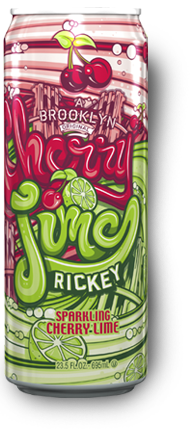
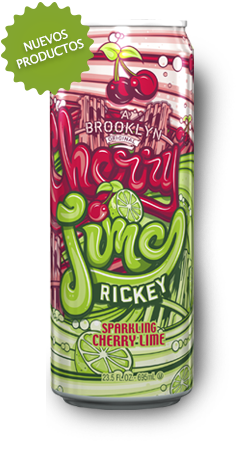
Cambio orden slider
Sparkling primero y etiqueta nuevos en lata1

diff --git a/js/slideshow.js b/js/slideshow.js
@@ -1,8 +1,6 @@
-$(document).ready(function() {		
-	
+$(document).ready(function() {			
 	//Execute the slideShow, set 4 seconds for each images
 	//slideShow(15000);
-
 });
 
 
@@ -123,7 +121,40 @@ function gallery(direction) {
 
 function animate_all_elements(id_next) {
 		
-	if(id_next == 'tenegro'){
+	if (id_next=='sparkling') {
+	    
+	    	var contenedorCinco = $('li.show ul').children('li').append('<span class="sparkling_circles"></span><a href="/main/sparkling_lemonlime/" class="sparkling_lata3"></a><a href="/main/sparkling_mangolime/" class="sparkling_lata2"></a><a href="/main/sparkling_cherrylime" class="sparkling_lata1"></a><span class="sparkling_texto"></span>');
+	    	
+	    	$('.sparkling_texto').delay(800).animate({
+	    	opacity: 1,
+	    	marginLeft: '+=40'
+	  		},500, 'easeInOutQuad');
+	  		
+	  		 $('.sparkling_lata1').delay(200).animate({
+	    	opacity: 1,
+	    	top: '+=20'
+	  		}, 400);
+	  		
+	  		$('.sparkling_lata2').delay(300).animate({
+	    	opacity: 1, 
+	    	top: '+=20'
+	  		}, 200);
+	  		
+	  		$('.sparkling_lata3').delay(300).animate({
+	    	opacity: 1, 
+	    	top: '+=20'
+	  		}, 200);
+	  		
+	  		$('.sparkling_circles').delay(800).animate({
+	    	opacity: 1,
+	    	top: '+=50',
+	    	left: '+=80'
+	  		},4000, 'easeOutElastic'
+            );
+
+	}
+	
+	else if(id_next == 'tenegro'){
 		var contenedor = $('li.show ul').children('li').append('<span class="tenegro_texto"></span><span class="tenegro_flotan"></span><a href="/main/tehelado_fram/" class="tenegro_lata1"></a><span class="tenegro_limon"></span><a href="/main/tehelado_mango/" class="tenegro_lata3"></a><a href="/main/tediet_limon/" class="tenegro_lata4"></a><a href="/main/tehelado_limon/" class="tenegro_lata2"></a>');
 	   
 		$('.tenegro_texto').delay(1000).animate({
@@ -267,7 +298,15 @@ function animate_all_elements(id_next) {
 	    	top: '+=50'
 	  		}, 2000, 'easeInOutSine');
 
-	    }  else if (id_next=='sparkling') {
+	    }  
+
+}
+
+function animate_first_elements() {
+
+	var id = $('li.show ul').attr('id');
+
+	if (id =='sparkling') {
 	    
 	    	var contenedorCinco = $('li.show ul').children('li').append('<span class="sparkling_circles"></span><a href="/main/sparkling_lemonlime/" class="sparkling_lata3"></a><a href="/main/sparkling_mangolime/" class="sparkling_lata2"></a><a href="/main/sparkling_cherrylime" class="sparkling_lata1"></a><span class="sparkling_texto"></span>');
 	    	
@@ -298,50 +337,8 @@ function animate_all_elements(id_next) {
 	  		},4000, 'easeOutElastic'
             );
 
-	    }
-
-}
-
-function animate_first_elements() {
-
-	var id = $('li.show ul').attr('id');
-
-	if(id== 'tenegro'){
-		var contenedor = $('li.show ul').children('li').append('<span class="tenegro_texto"></span><span class="tenegro_flotan"></span><a href="/main/tehelado_fram/" class="tenegro_lata1"></a><span class="tenegro_limon"></span><a href="/main/tehelado_mango/" class="tenegro_lata3"></a><a href="/main/tediet_limon/" class="tenegro_lata4"></a><a href="/main/tehelado_limon/" class="tenegro_lata2"></a>');
-
-		$('.tenegro_texto').delay(1000).animate({
-	    	opacity: 1,
-	    	marginLeft: '+=20'
-	  		}, 500);
-	  		
-	  	$('.tenegro_flotan').delay(600).animate({
-	    	opacity: 1,
-	    	top: '+=80',
-	    	left: '+=200'
-	  		},5000,  'easeOutElastic'
-            );
-                	
-	  	$('.tenegro_lata1').delay(100).animate({
-	    	opacity: 1
-	  	}, 500);
-	  	
-	  	$('.tenegro_lata2').delay(300).animate({
-	    	opacity: 1
-	  	}, 500);
-	  	
-	  	$('.tenegro_lata3').delay(500).animate({
-	    	opacity: 1
-	  	}, 500);
-	  	
-	  	$('.tenegro_lata4').delay(600).animate({
-	    	opacity: 1
-	  	}, 500);
-	  	
-	  	$('.tenegro_limon').delay(700).animate({
-	    	opacity: 1
-	  	}, 500);
-
 	}
+
 }
 
 

diff --git a/js/mycode.js b/js/mycode.js
@@ -8,14 +8,14 @@ $(document).ready(function(){
 	$('.slideshow').before('<span class="preload"></span>');
 
 /* --- preLoad --- */
-	preloader.addFiles(	'../img/elements/bannertenegro_4.png','../img/elements/bannertenegro_3.png','../img/elements/bannertenegro_1.jpg', '../img/elements/bannertenegro_2.png', '../img/elements/bannertenegro_5.png', '../img/elements/bannertenegro_6.png', '../img/elements/bannertenegro_7.png', '../img/elements/bannernectar_4.png','../img/elements/bannernectar_2.png','../img/elements/bannernectar_5.png','/img/elements/bannernectar_6.png', '../img/elements/bannernectar_3.png', '../img/elements/bannerteverde_1.jpg', '../img/elements/bannerteverde_3.png', '../img/elements/bannernectar_1.jpg' , '../img/elements/bannerbebida_1.jpg', '../img/elements/bannerbebida_4.png', '../img/elements/bannerbebida_5.png', '../img/elements/bannerbebida_3.png', '../img/elements/bannerteverde_5.png', '/img/elements/bannerteverde_6.png', '/img/elements/bannerteverde_3.png', '../img/elements/bannerteverde_2.png', '../img/elements/bannersparkling_01.png');
+	preloader.addFiles(	'../img/elements/bannertenegro_4.png','../img/elements/bannertenegro_3.png','../img/elements/bannertenegro_1.jpg', '../img/elements/bannertenegro_2.png', '../img/elements/bannertenegro_5.png', '../img/elements/bannertenegro_6.png', '../img/elements/bannertenegro_7.png', '../img/elements/bannernectar_4.png','../img/elements/bannernectar_2.png','../img/elements/bannernectar_5.png','/img/elements/bannernectar_6.png', '../img/elements/bannernectar_3.png', '../img/elements/bannerteverde_1.jpg', '../img/elements/bannerteverde_3.png', '../img/elements/bannernectar_1.jpg' , '../img/elements/bannerbebida_1.jpg', '../img/elements/bannerbebida_4.png', '../img/elements/bannerbebida_5.png', '../img/elements/bannerbebida_3.png', '../img/elements/bannerteverde_5.png', '/img/elements/bannerteverde_6.png', '/img/elements/bannerteverde_3.png', '../img/elements/bannerteverde_2.png', '../img/elements/bannersparkling_01.jpg', '../img/elements/bannersparkling_lata1.png', '../img/elements/bannersparkling_lata2.png');
 						
 	$('.slideshow').hide();
 	$('#slideshow-nav').hide();
 	$('.slideshow').css({ opacity: '0' } );
 
 	
-	preloader.on('error', function(e){ console.error(e); });
+	preloader.on('error', function(e){});
 	preloader.on('finish', function(){
 		//console.log('ok')
 		startIt();

diff --git a/css/custom.css b/css/custom.css
@@ -690,8 +690,8 @@ ul.slideshow .sparkling_lata2 {
 	height: 456px;
     width: 200px;
     position: absolute;
-	right: 200px;
-    top: 70px;
+	right: 160px;
+    top: 75px;
     opacity: 0;
 }
 
@@ -702,8 +702,8 @@ ul.slideshow .sparkling_lata3 {
 	height: 380px;
     width: 188px;
     position: absolute;
-	right:100px;
-    top: 100px;
+	right:70px;
+    top: 90px;
     opacity: 0;
 }
 

diff --git a/sites/default/templates/pages/index.php b/sites/default/templates/pages/index.php
@@ -6,6 +6,7 @@
 	
 		<div class="wrapper-a z-9999">
 	         <div id="slideshow-nav">
+		         
 		        <a href="javascript:void(0)" class="nav-item nav-item-dot selected">
 		        </a>
 		        
@@ -25,6 +26,11 @@
 
 
          <ul class="slideshow">
+	        <li class="slide" class="">
+         		<ul id="sparkling">
+         		</ul>
+         	</li>
+         	
          	<li class="slide" class="show">
 	         	<ul id="tenegro">
 	         	</ul>
@@ -44,12 +50,7 @@
          		<ul id="bebida">
          		</ul>
          	</li>
-         	
-         	<li class="slide" class="">
-         		<ul id="sparkling">
-         		</ul>
-         	</li>
-         
+
          </ul><!--/slideshow-->
                       
  
